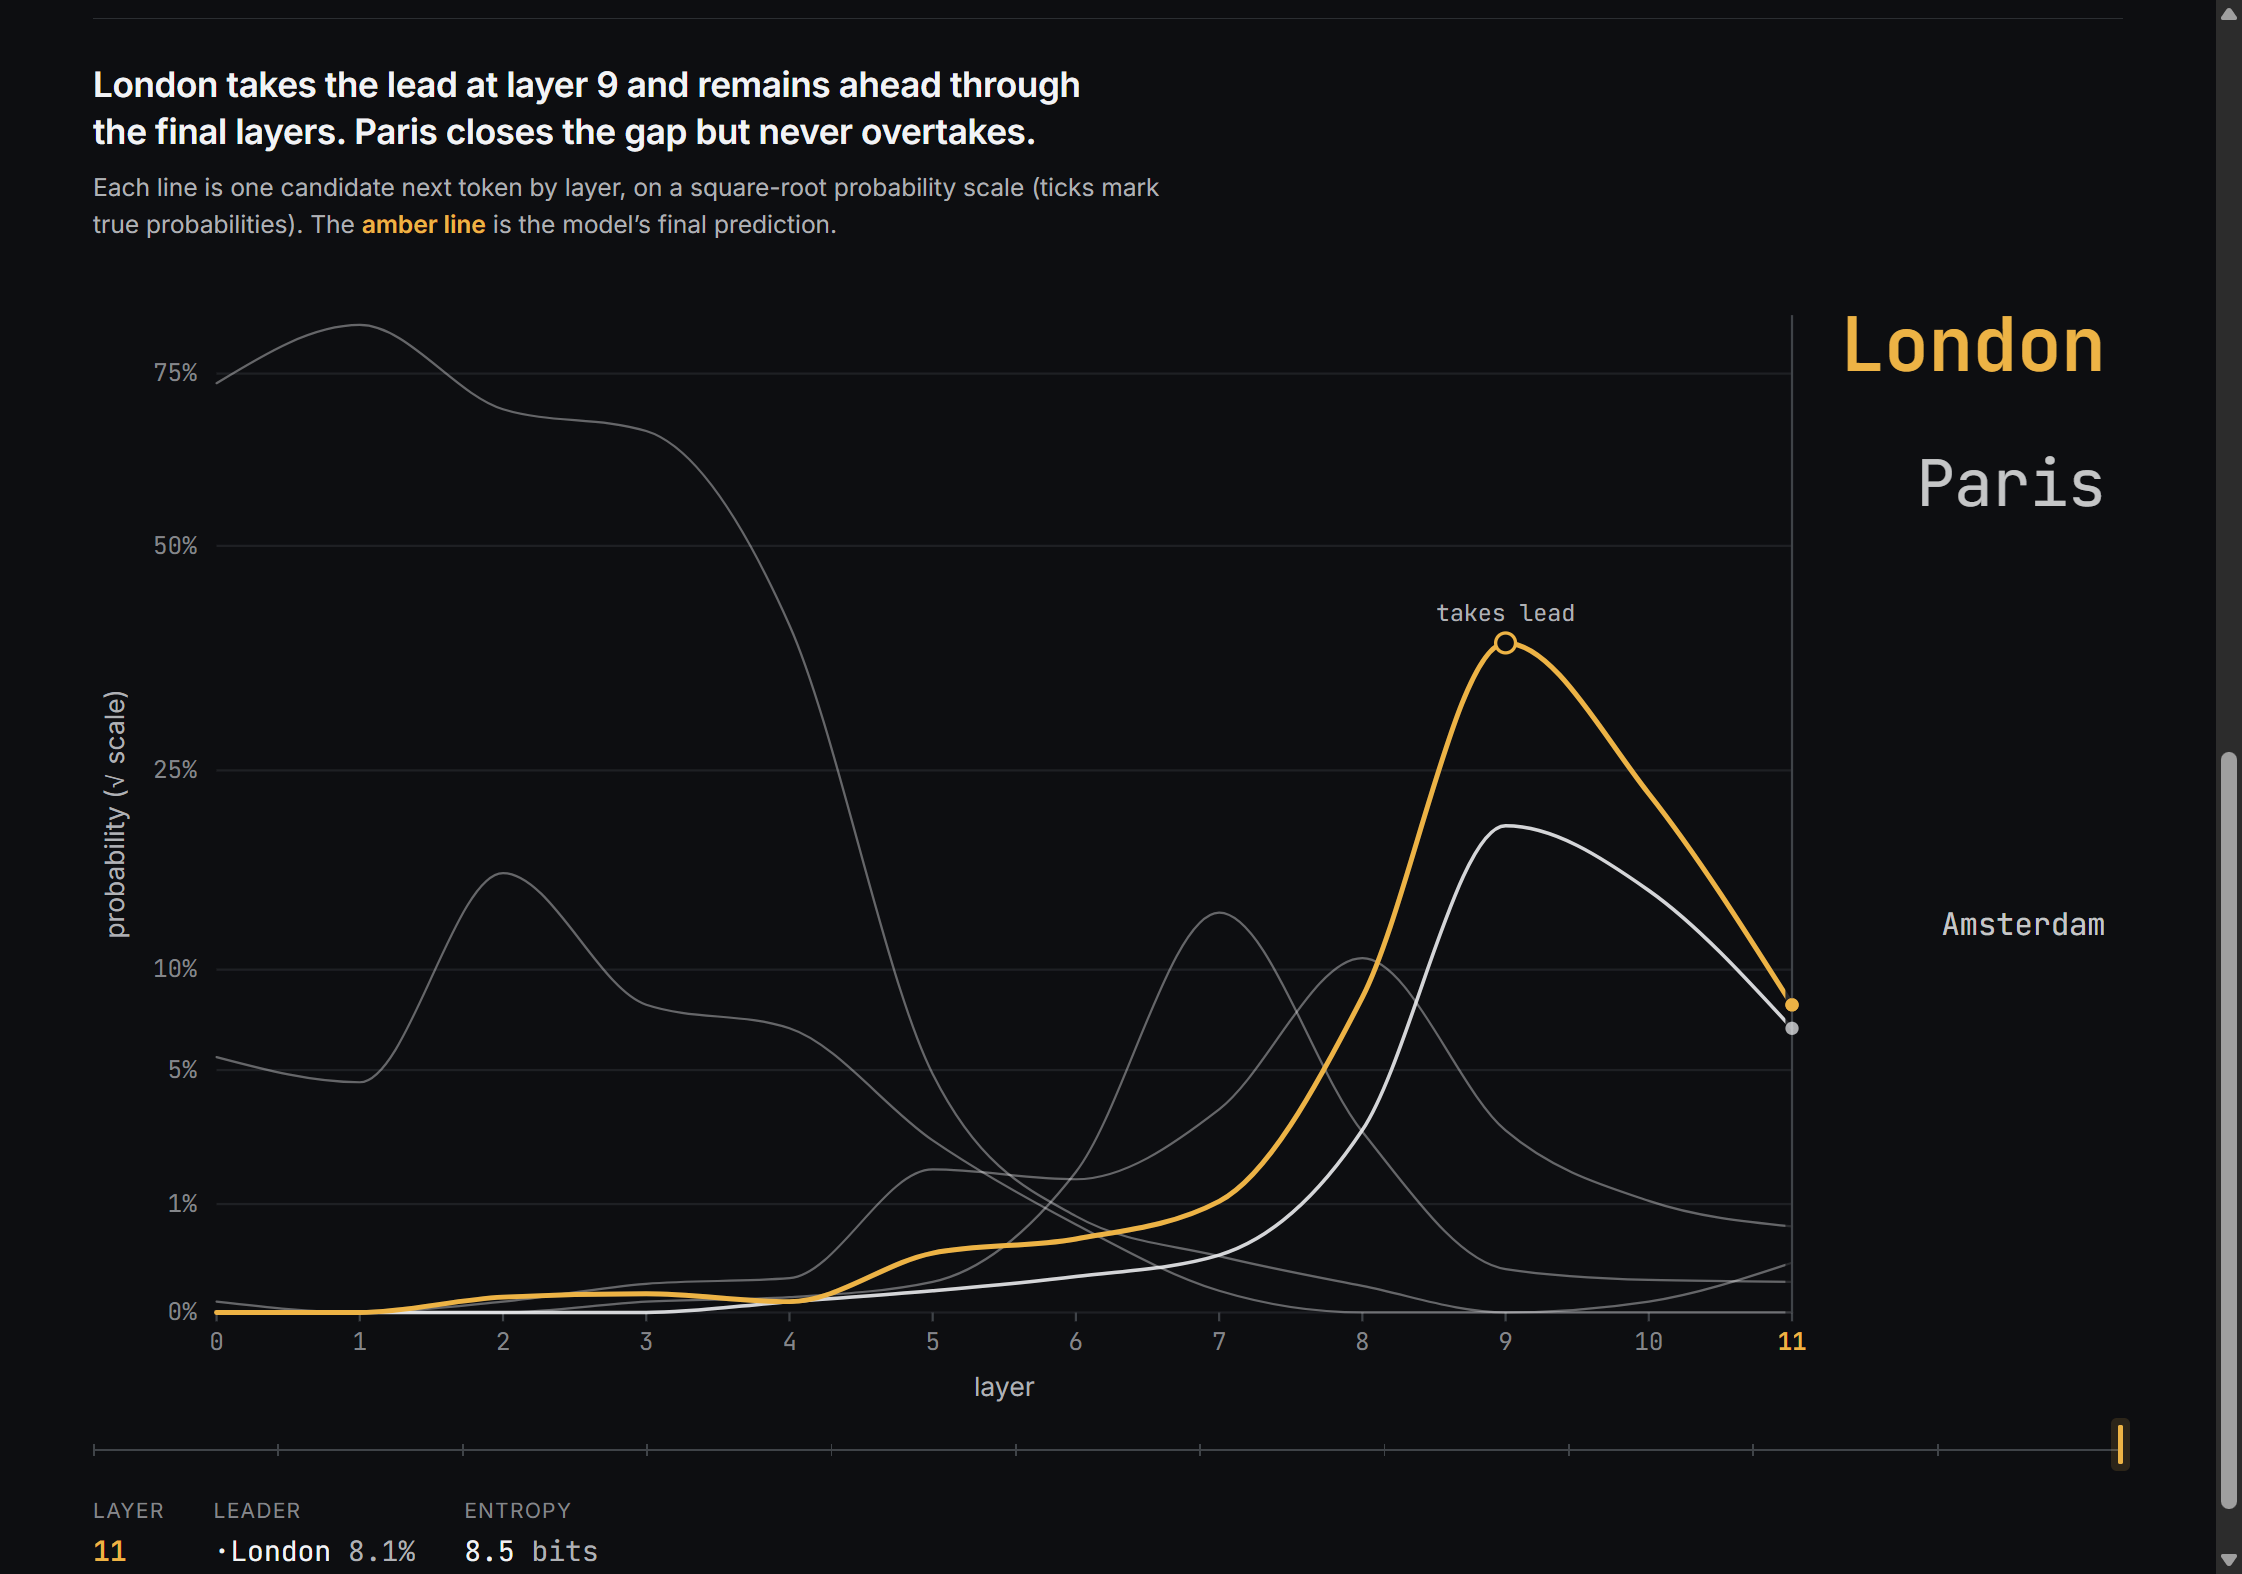
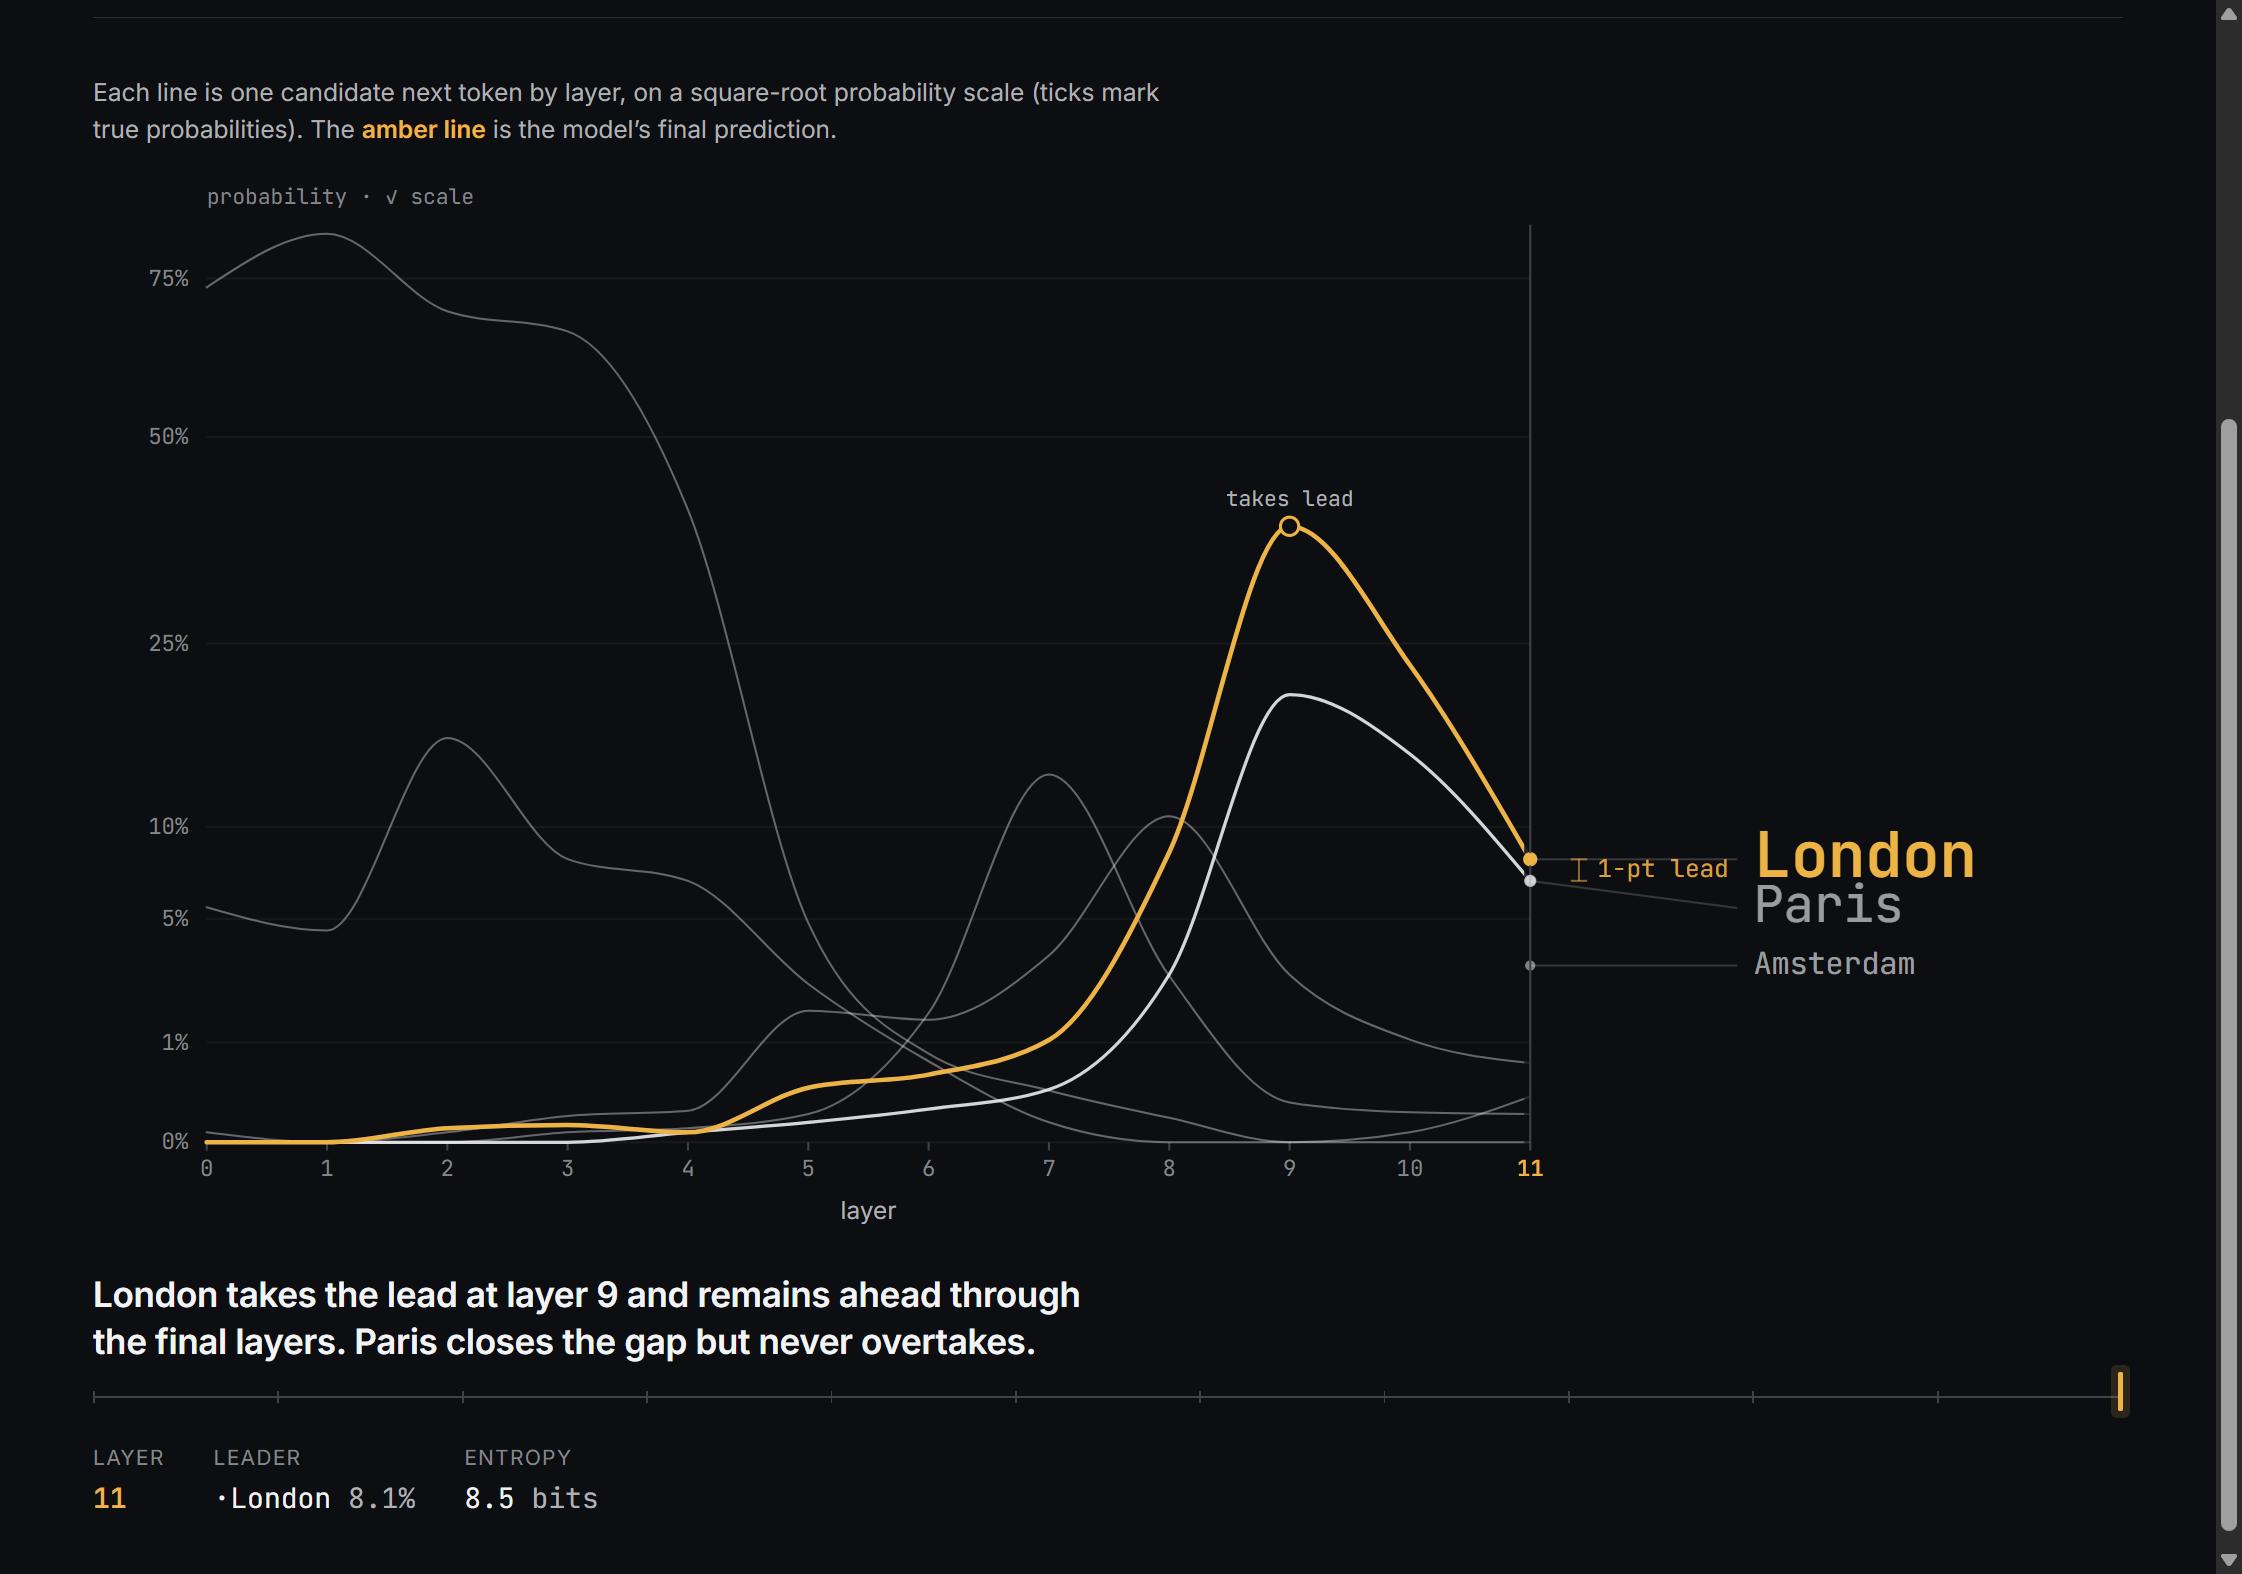
refresh-readme-for-the-moat-recompose
Update the README and screenshots for the recomposed climax: the moat
(the measured gap on the chart's own axis) is now the hero. Refresh the
water (29-pt) and eiffel (1-pt) captures and add the fox hedge ("no
separation"), and describe the standing/moat in the architecture notes.

diff --git a/README.md b/README.md
@@ -9,7 +9,7 @@ picture called **The Race** — and then asks the question that actually matters
 
 > Not *"what word won?"* but **"did the model actually know?"**
 
-![The Race resolving on a decisive prompt: oxygen pulls clearly ahead and stands alone above a wide moat.](docs/climb-water.png)
+![The Race resolving on a decisive prompt: oxygen stands alone above a wide, measured moat labelled a 29-point lead.](docs/climb-water.png)
 
 ---
 
@@ -25,20 +25,24 @@ Synapse re-implements a real, citable interpretability technique — the logit l
 - **The forward pass becomes one motion.** A steady sweep reveals the layers left to right,
   so you watch the prediction *form* rather than reading a finished chart. The winning line
   ignites amber at the layer where it takes the lead.
-- **Doubt is physical, and honest.** The climax — *The Standing* — places the final
-  candidates on a probability axis. A confident model leaves its answer alone above a wide
-  empty **moat**; an unsure model leaves a rival pressed right beneath it. The visualization
-  never forces a clean "it knew" story when the data disagrees.
+- **Doubt is physical, measured, and honest.** When the race resolves, the trajectories
+  settle into *The Standing*: the candidates become words at their true final-layer height on
+  the chart's own axis. The hero is the **moat**, the empty span between the winner and its
+  nearest rival, drawn at their real probabilities and labelled with the lead in points. A
+  wide moat means the model knew; a near-zero moat means it only leaned; a packed crowd with
+  no moat means it never decided. The visualization never invents a gap the data doesn't have.
 
 GPT-2 small is genuinely weak, and Synapse shows that truthfully. The three regimes:
 
-| Prompt | What the model does | How The Standing reads it |
+| Prompt | What the model does | The moat |
 |---|---|---|
-| `Water is made of hydrogen and` | **Knew.** Oxygen pulls clearly ahead (48%). | Oxygen alone above a wide moat; the also-rans recede. |
-| `The Eiffel Tower is in the city of` | **Leaned, unsure.** London (8.1%) edges Paris (6.9%) — and it's *wrong*. | London on top with Paris a hair beneath; the field stays present. |
-| `The quick brown fox jumps over the lazy` | **Didn't know.** A flat four-way hedge. | A tight pack of near-equals; nothing separates. |
+| `Water is made of hydrogen and` | **Knew.** Oxygen pulls clearly ahead (48%). | A wide **29-pt** moat; oxygen stands alone, the also-rans recede. |
+| `The Eiffel Tower is in the city of` | **Leaned, unsure.** London (8.1%) edges Paris (6.9%), and it's *wrong*. | A **1-pt** moat; London a hair above Paris, the field stays present. |
+| `The quick brown fox jumps over the lazy` | **Didn't know.** A four-way hedge. | **No separation**; a tight pack of near-equals, no moat at all. |
 
-![The same view on a near-miss: London edges Paris by a thread, the field stays co-present.](docs/climb-eiffel.png)
+![A near-miss: London edges Paris by a single point, a near-zero moat, the field co-present.](docs/climb-eiffel.png)
+
+![A hedge: fox, brown, white and lazy packed together with no separation, no moat.](docs/climb-fox.png)
 
 ---
 
@@ -89,15 +93,17 @@ Frontend (Vite + React + TS, D3)  ──POST /api/analyze──▶  Backend (Fas
   per-layer probability **trajectories** for a tracked token set (`compute_trajectories`),
   and per-layer Shannon **entropy** in bits (`compute_entropy`). The unembed includes the
   bias `b_U`, so the final-layer lens reproduces the model's real logits to ~1e-5.
-- **Frontend.** `ClimbView.tsx` builds the D3 scene **once** per analysis (object constancy —
+- **Frontend.** `ClimbView.tsx` builds the D3 scene **once** per analysis (object constancy:
   lines are never recreated or reordered) and drives the whole picture from one value via
   `applyLayer(frontier)`: a clip reveals the trajectories up to the current layer, a playhead
-  tracks it, the winner ignites, and at rest the verdict (*The Standing*) settles. A √
-  probability scale keeps both early high-confidence spikes and the late low-probability race
-  visible. State lives in a small Zustand store.
-- **Honesty by construction.** The thesis sentence, the line-dimming at rest, and the verdict
-  are all derived from one shared event core (`climbEvents.ts`), gated on the same `decisive`
-  test — so the words and the chart can never disagree.
+  tracks it, the winner ignites, and at the final layer the trajectories resolve into *The
+  Standing*, the words and the measured moat blooming in on the chart's own √ probability
+  axis. That shared axis keeps early high-confidence spikes and the late low-probability race
+  both visible, and makes the moat an honest reading of the real gap. State lives in a small
+  Zustand store.
+- **Honesty by construction.** The thesis sentence, the line-dimming at rest, and the moat
+  (lead vs "no separation") are all derived from one shared event core (`climbEvents.ts`),
+  gated on the same `decisive` test, so the words and the chart can never disagree.
 
 ### Project layout
 
